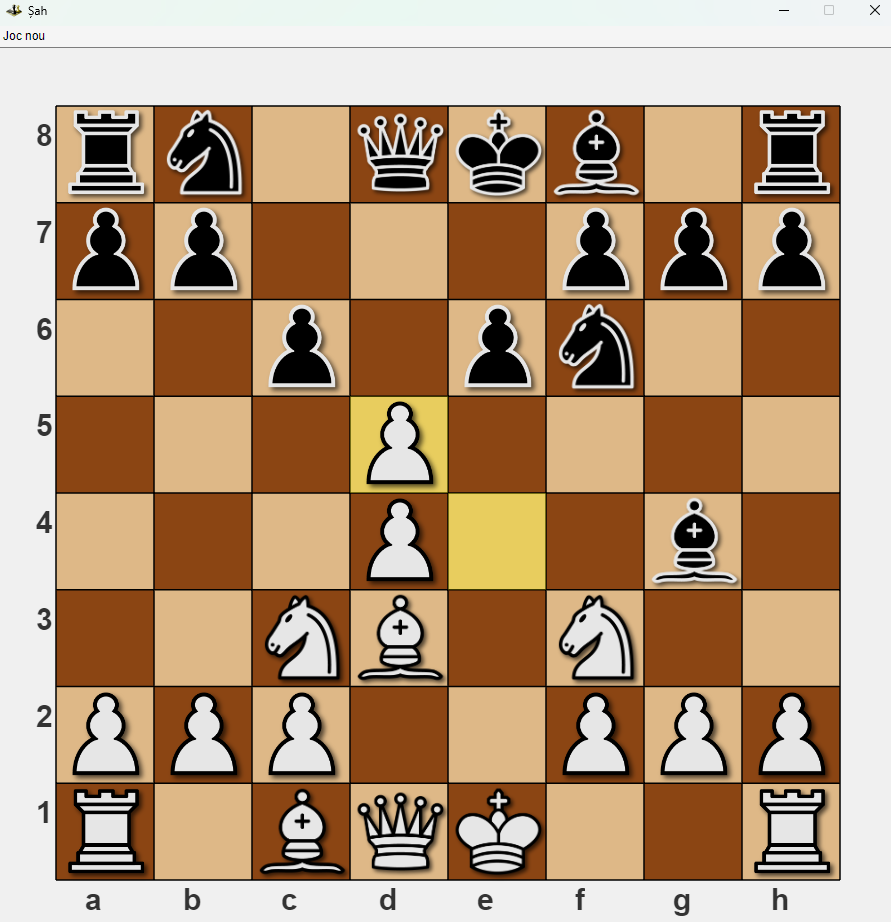
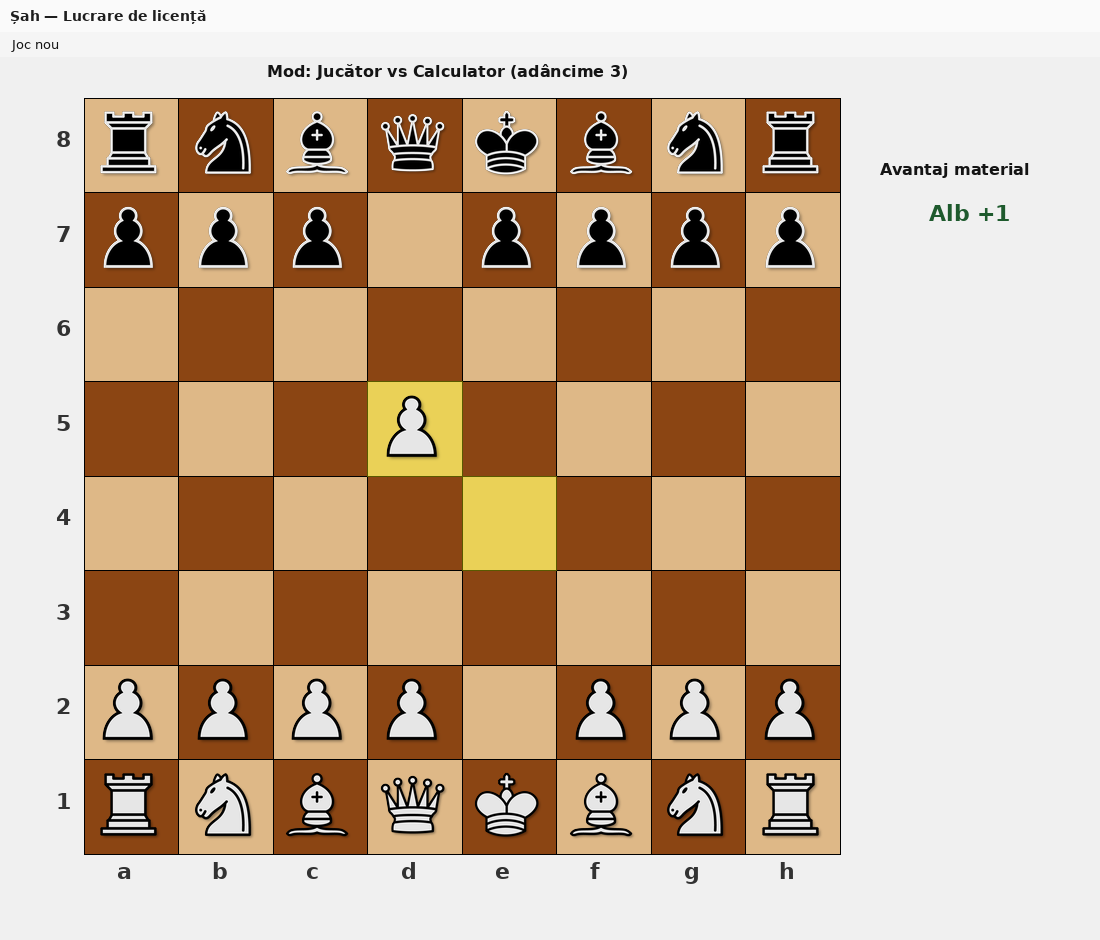
Update README screenshots for current Romanian UI
Refresh tabla-initiala, partida, and sah-mat to show the thesis window
title, material advantage panel, and Romanian status/menus.

diff --git a/README.md b/README.md
@@ -8,23 +8,23 @@ quiescence search, and a transposition table.
 
 ## Screenshots
 
-![Board at the starting position](docs/screenshots/tabla-initiala.png)
-![A game in progress](docs/screenshots/partida.png)
-![Check / checkmate highlighted](docs/screenshots/sah-mat.png)
+![Poziția inițială cu panoul de avantaj material](docs/screenshots/tabla-initiala.png)
+![Partidă în curs — evidențierea ultimei mutări](docs/screenshots/partida.png)
+![Șah mat — dialog de sfârșit de joc](docs/screenshots/sah-mat.png)
 
 ## Features
 
 - **Custom graphical interface**: 8x8 board with `uifigure` / `uiimage`,
-  piece PNGs, drag & drop, last-move highlight, and **legal-move hints**
-  when a piece is picked up.
-- **Two game modes**: User vs User and User vs Robot (search depth 1–5).
+  piece PNGs, drag & drop, last-move highlight, **legal-move hints**, and a
+  live **material advantage** label (`Egal` / `Alb +N` / `Negru +N`).
+- **Two game modes**: Jucător vs Jucător and Jucător vs Calculator (depth 1–5).
 - **Complete chess rules**: normal moves for all pieces, **castling**,
   **en passant**, and **pawn promotion** (UI dialog for humans; auto-queen
   for the engine).
 - **Check, checkmate, and stalemate** detection with visual feedback.
 - **FEN** loading for the starting position / reset (placement, side to
   move, castling rights, en passant square).
-- **Status line** while the robot is thinking.
+- **Status line** while the calculator is thinking.
 
 ## Search engine
 
@@ -53,8 +53,8 @@ quiescence search, and a transposition table.
    ```matlab
    joc = Sah();
    ```
-4. User vs User starts by default. For User vs Robot, use the menu:
-   **Joc nou → Utilizator vs Robot → Adâncime=N**.
+4. Jucător vs Jucător starts by default. For vs Calculator, use the menu:
+   **Joc nou → Jucător vs Calculator → Adâncime N**.
 ## Perft validation
 
 From the `Sah/` folder:
